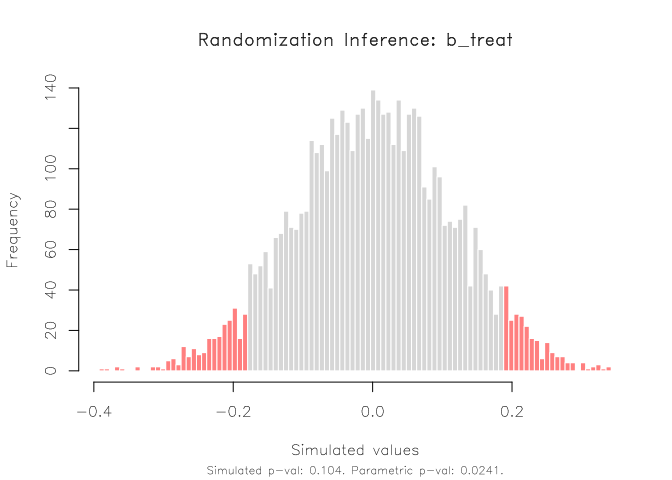
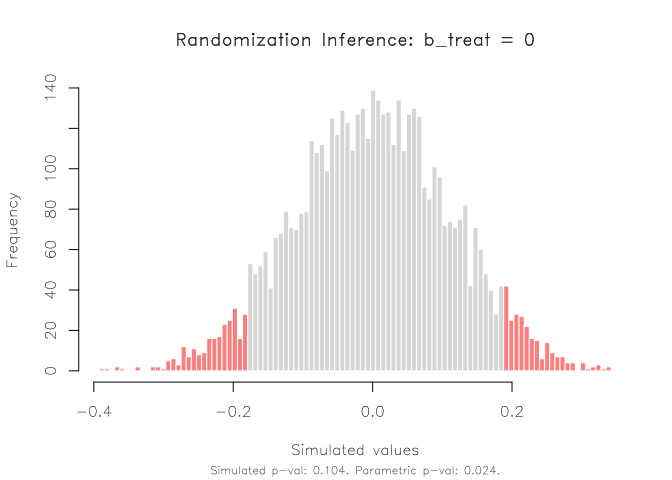
Update README

Changed region(s): [[0.25, 0.0625, 0.8125, 0.0938], [0.3125, 0.9688, 0.75, 1.0]]

diff --git a/README.md b/README.md
@@ -40,7 +40,7 @@ The `ritest()` function supports a variety of arguments, but the basic
 syntax is
 
 ``` r
-ritest(object, resampvar, reps=100, strata=NULL, cluster=NULL, ...)
+ritest(object, resampvar, h0=NULL, reps=100, strata=NULL, cluster=NULL, ...)
 ```
 
 where:
@@ -48,6 +48,9 @@ where:
 -   `object` is a model object (e.g. a linear regression).
 -   `resampvar` is the variable that you want to resample
     (i.e. permute).
+-   `h0` is the sharp null hypothesis that you want to test (defaults to
+    ‘=0’, i.e. a standard two-sided test of `resampvar` against a null
+    value of zero.)
 -   `reps` is the number of simulations (i.e. permutations).
 -   `strata` is a variable defining the stratification (aka “blocking”)
     of the experimental design, if any.
@@ -88,7 +91,6 @@ est_ri = ritest(est, 'N', reps = 1e3, seed = 1234L, pcores = 2L, verbose = TRUE)
 #> * ORIGINAL MODEL *
 #> ******************
 #> 
-#> 
 #> Call:
 #> lm(formula = yield ~ N + P + K, data = npk)
 #> 
@@ -116,6 +118,7 @@ est_ri = ritest(est, 'N', reps = 1e3, seed = 1234L, pcores = 2L, verbose = TRUE)
 #> 
 #> Call: lm(formula = yield ~ N + P + K, data = npk)
 #> Res. var(s): N1
+#> H0: N1 = 0
 #> Strata var(s): 
 #> Strata: 
 #> Cluster var(s): 
@@ -162,6 +165,7 @@ feols(yield ~ N + P + K | block, vcov = 'iid', data = npk) |>
 #> 
 #> Call: feols(fml = yield ~ N + P + K | block, data = npk, vcov = 'iid')
 #> Res. var(s): N1
+#> H0: N1 = 0
 #> Strata var(s): block
 #> Strata: 6
 #> Cluster var(s): 
@@ -255,7 +259,6 @@ co_est =
     vcov = ~b_block, data = co
     )
 #> NOTE: 1,020 observations removed because of NA values (LHS: 1,020).
-
 tic = Sys.time()
 co_ri = ritest(co_est, ~b_treat, cluster=~b_block, strata=~b_pair, reps=5e3, seed=546L)
 toc = Sys.time() - tic
@@ -265,6 +268,7 @@ co_ri
 #> 
 #> Call: feols(fml = dayscorab ~ b_treat + b_dayscorab + miss_b_dayscorab + round2 + round3 | b_pair, data = co, vcov = ~b_block)
 #> Res. var(s): b_treat
+#> H0: b_treat = 0
 #> Strata var(s): b_pair
 #> Strata: 31
 #> Cluster var(s): b_block
@@ -283,13 +287,13 @@ exactly the same results across two different languages. But the
 important thing to note is that they are functionally equivalent
 (rejection probability of 0.106 vs 0.104).
 
-One nice feature of this implementation is that it should complete very
-quickly. This time, the 5,000 simulations only take around **6
+One nice feature of this R implementation is that it should complete
+very quickly. This time, the 5,000 simulations only take around **6
 seconds**.
 
 ``` r
 toc
-#> Time difference of 6.362944 secs
+#> Time difference of 6.698386 secs
 ```
 
 Again, we can plot the results. Here’s a slight variation, where we plot
